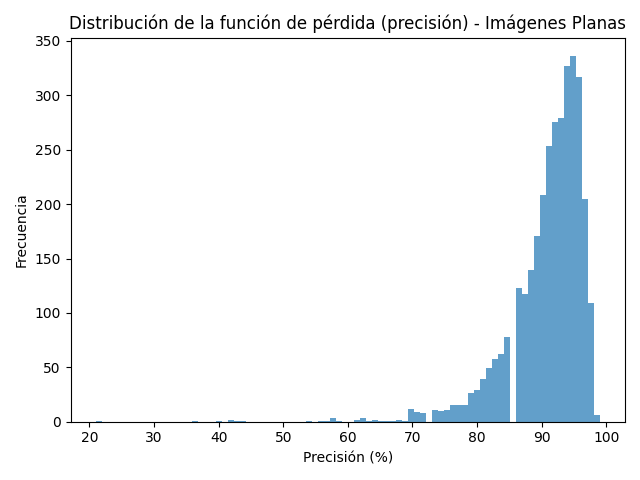
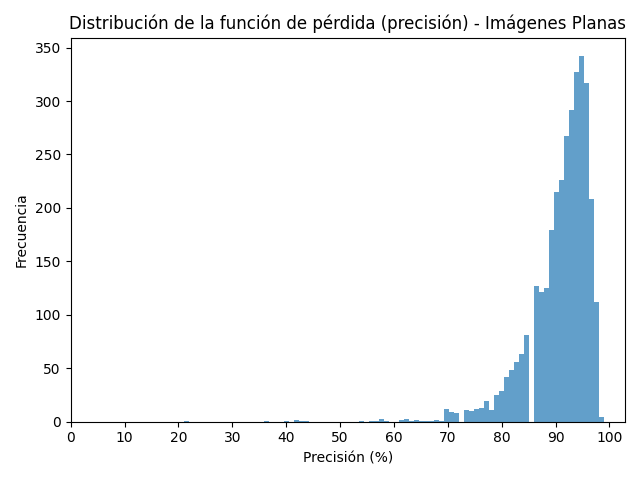
Improve metrics

diff --git a/metrics.py b/metrics.py
@@ -80,6 +80,8 @@ def save_histogram(data, name):
     plt.title(f"Distribución de la función de pérdida (precisión) - {name}")
     plt.xlabel("Precisión (%)")
     plt.ylabel("Frecuencia")
+
+    plt.xticks(np.arange(0, 101, 10))
     plt.tight_layout()
     plt.savefig(os.path.join(output_dir, f"loss_distribution_{name}.png"))
     plt.close()
